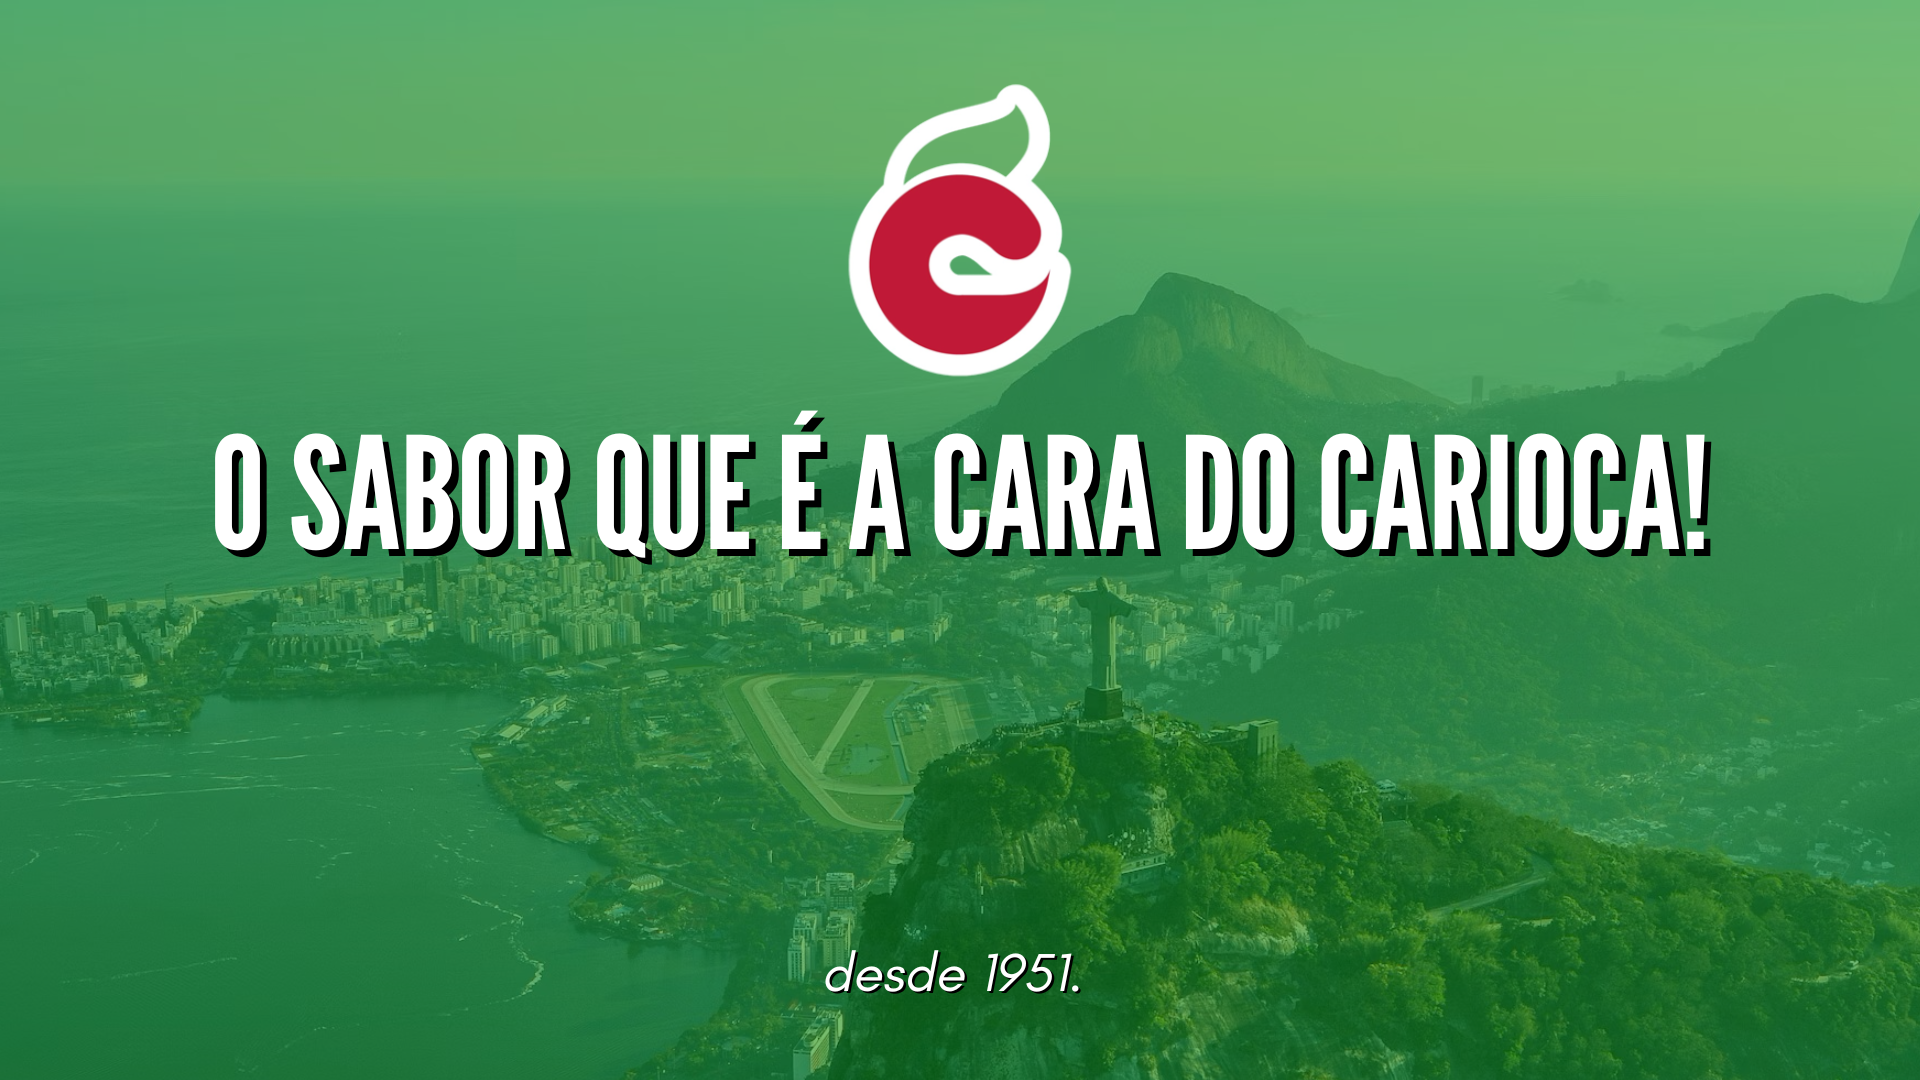
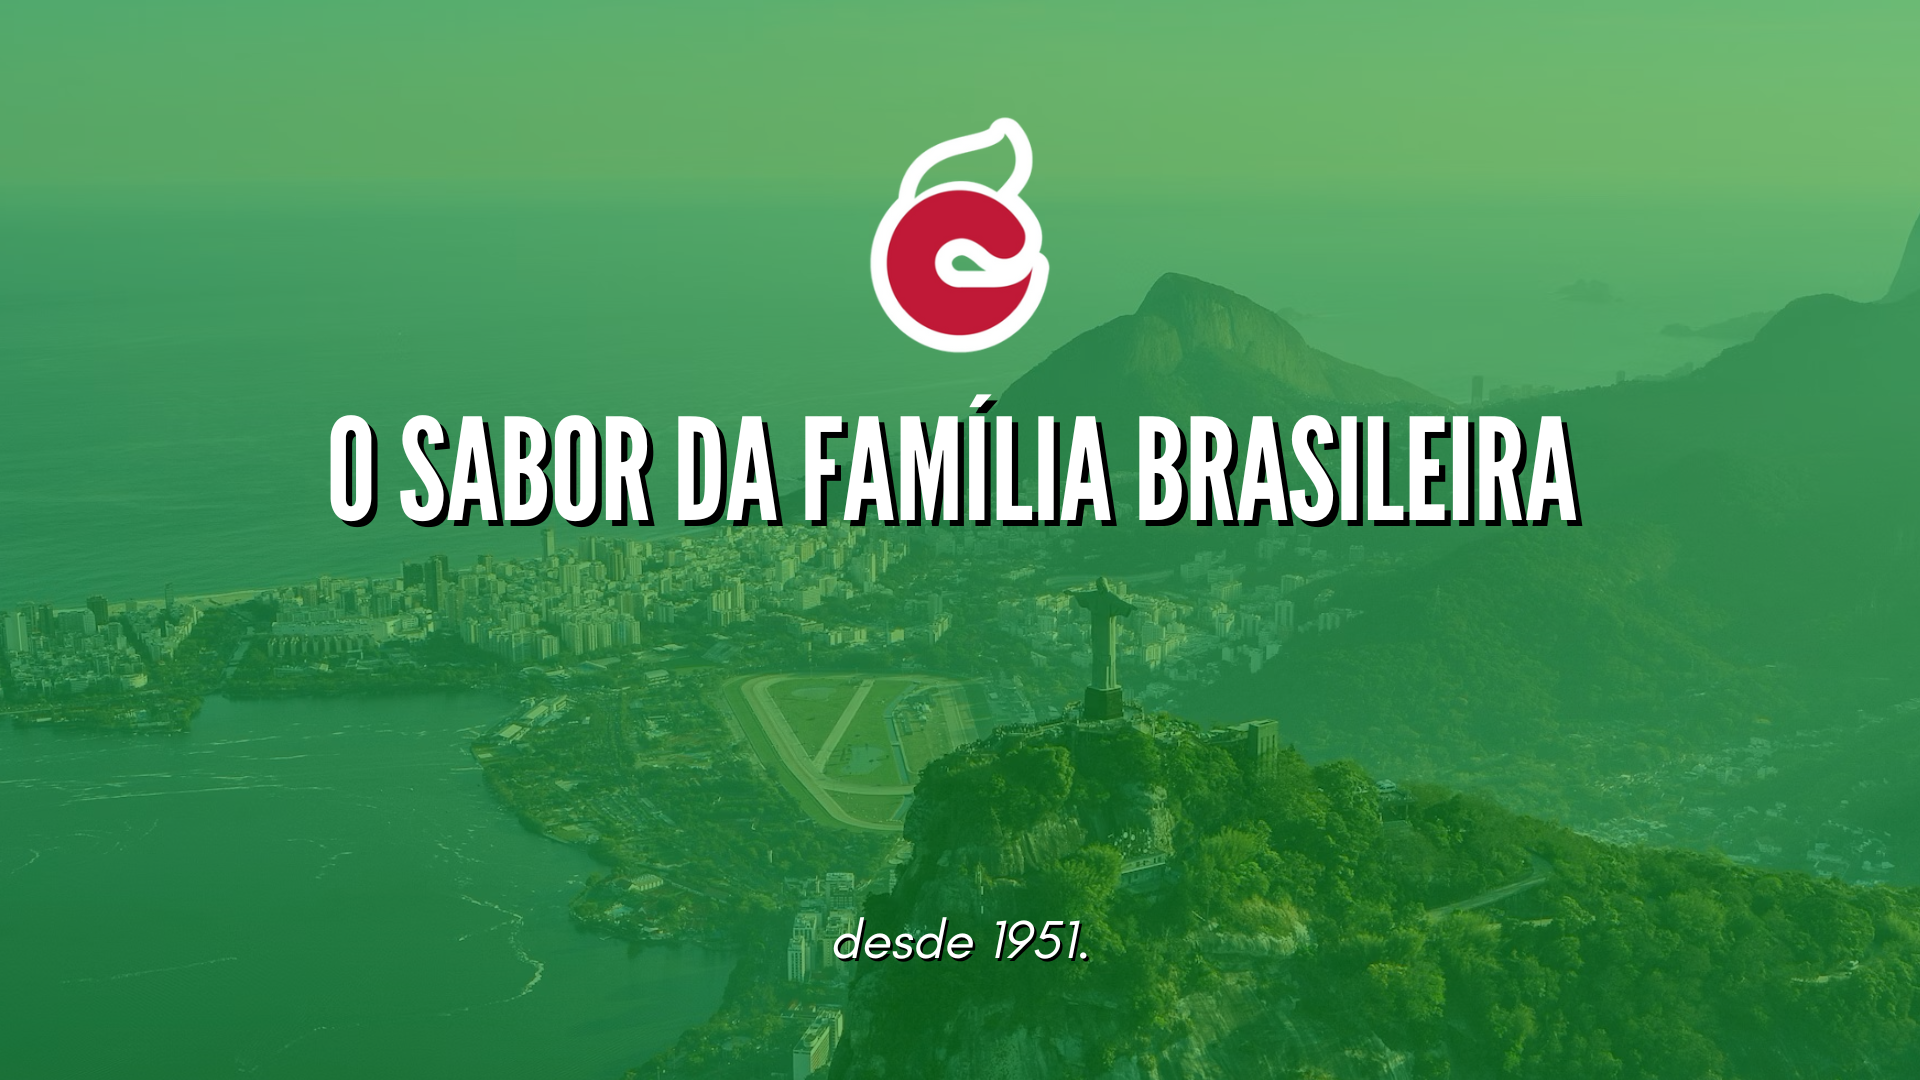
refactor(): Alterado legenda

Changed region(s): [[0.0938, 0.0611, 0.9062, 0.5194], [0.4062, 0.8556, 0.5625, 0.9167]]

diff --git a/src/components/Products.jsx b/src/components/Products.jsx
@@ -55,7 +55,7 @@ const Products = () => {
             <p className="md:text-xl leading-relaxed text-justify">
               Nosso produto mais tradicional e querido! O sabor autêntico do
               guaraná brasileiro que conquistou gerações e continua sendo a
-              escolha da família carioca.
+              escolha da Família Brasileira.
             </p>
 
             <div className="grid md:grid-cols-3 gap-4 md:gap-8 text-black">
@@ -76,7 +76,7 @@ const Products = () => {
               <div className="p-4 md:p-6 rounded-xl bg-white bg-opacity-20">
                 <h4 className="md:text-xl font-bold">Sabor</h4>
                 <p className="text-sm md:text-base">
-                  O gosto que é a cara do carioca
+                  O sabor da Família Brasileira
                 </p>
               </div>
             </div>

diff --git a/index.html b/index.html
@@ -5,7 +5,7 @@
   <meta charset="UTF-8" />
   <link rel="icon" type="image/x-icon" href="/favicon.png" />
   <meta name="viewport" content="width=device-width, initial-scale=1.0" />
-  <title>Refrigerantes Convenção - O Sabor que é a Cara do Carioca!</title>
+  <title>Refrigerantes Convenção - O sabor da Família Brasileira!</title>
   <meta name="description"
     content="Refrigerantes Convenção - Desde 1951, o refrigerante da família brasileira. Guaraná, refrigerantes e bebidas de qualidade no Rio de Janeiro." />
 </head>
